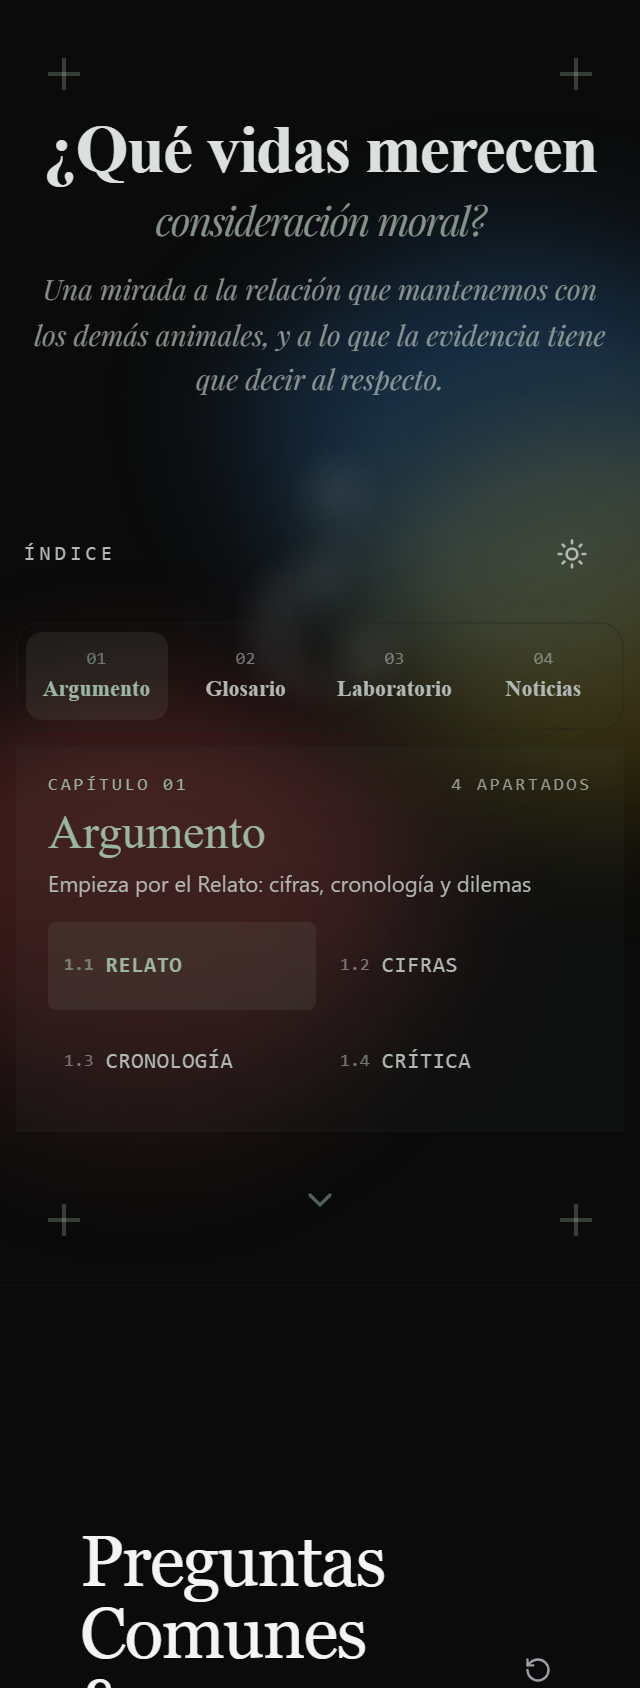
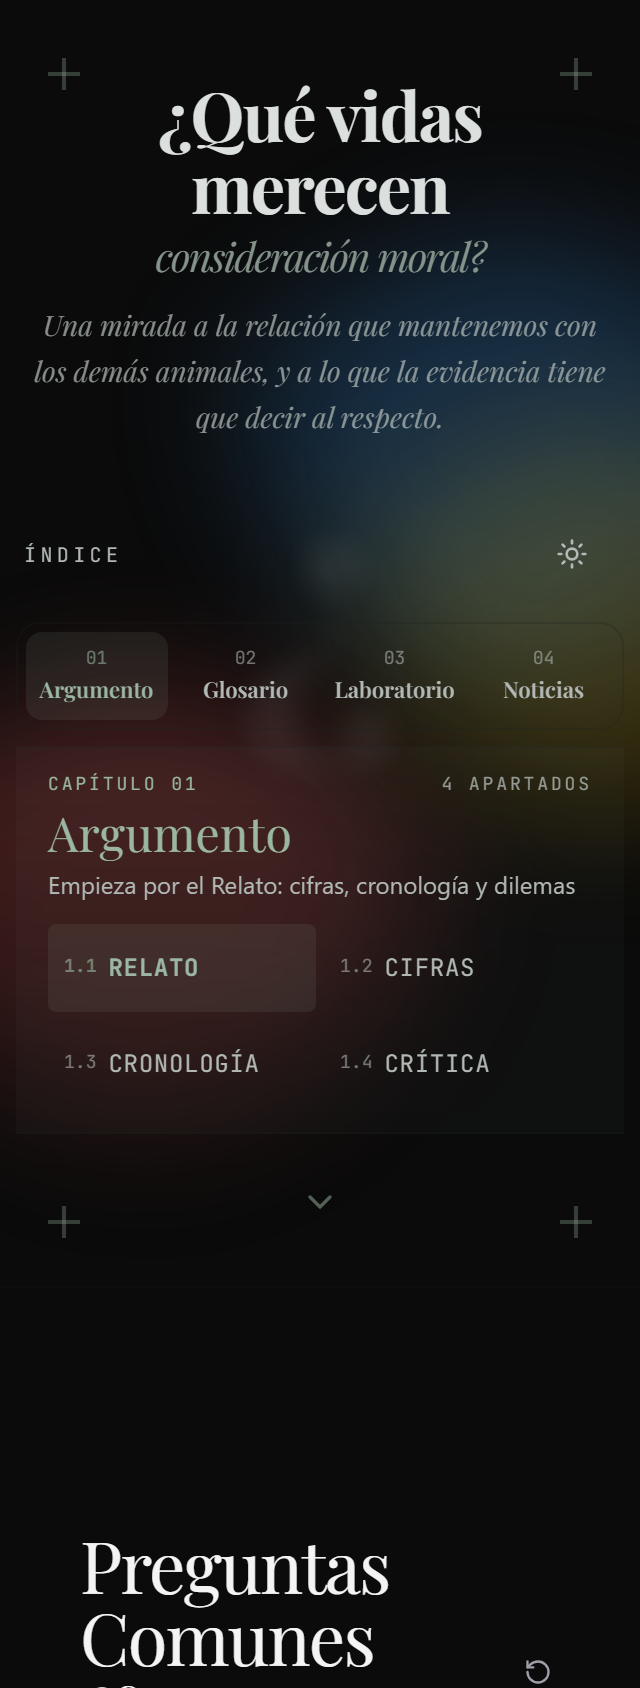
fix(nav): subir tamano de subapartados y descripciones

diff --git a/src/components/CompactIndexContent.tsx b/src/components/CompactIndexContent.tsx
@@ -84,7 +84,7 @@ export default function CompactIndexContent({ activeTab, onNavigate, themeToggle
               )}
             </div>
             <h3 className="mt-1 font-heading text-2xl leading-none text-primary">{activeCategoryData.label}</h3>
-            <p className="mt-1.5 text-[11px] leading-snug text-on-surface-variant">
+            <p className="mt-1.5 text-[12px] leading-snug text-on-surface-variant">
               {CATEGORY_HINTS[activeCategoryData.id]}
             </p>
             {activeSubs.length > 1 && (
@@ -110,7 +110,7 @@ export default function CompactIndexContent({ activeTab, onNavigate, themeToggle
                       <span className="shrink-0 font-mono text-[9px] opacity-60">
                         {activeIndex + 1}.{subIndex + 1}
                       </span>
-                      <span className="font-mono text-[11px] uppercase leading-tight tracking-[0.03em]">{sub.label}</span>
+                      <span className="font-mono text-[12px] uppercase leading-tight tracking-[0.03em]">{sub.label}</span>
                     </a>
                   );
                 })}
@@ -149,7 +149,7 @@ export default function CompactIndexContent({ activeTab, onNavigate, themeToggle
                       <span className={`block font-heading text-xl leading-none ${isActive ? "text-primary" : "text-on-surface"}`}>
                         {category.label}
                       </span>
-                      <span className="mt-1 block text-[11px] leading-snug text-on-surface-variant">
+                      <span className="mt-1 block text-[12px] leading-snug text-on-surface-variant">
                         {CATEGORY_HINTS[category.id]}
                       </span>
                     </span>
@@ -190,10 +190,10 @@ export default function CompactIndexContent({ activeTab, onNavigate, themeToggle
                           {activeIndex + 1}.{subIndex + 1}
                         </span>
                         <span className="min-w-0 flex-1">
-                          <span className={`block font-mono text-[11px] uppercase tracking-[0.05em] transition-colors group-hover:text-on-surface ${isActiveSub ? "font-bold" : ""}`}>
+                          <span className={`block font-mono text-[12px] uppercase tracking-[0.05em] transition-colors group-hover:text-on-surface ${isActiveSub ? "font-bold" : ""}`}>
                             {sub.label}
                           </span>
-                          <span className="mt-0.5 block text-[10px] leading-snug text-on-surface-variant/80">
+                          <span className="mt-0.5 block text-[11px] leading-snug text-on-surface-variant/80">
                             {SUB_HINTS[sub.tabId]}
                           </span>
                         </span>
